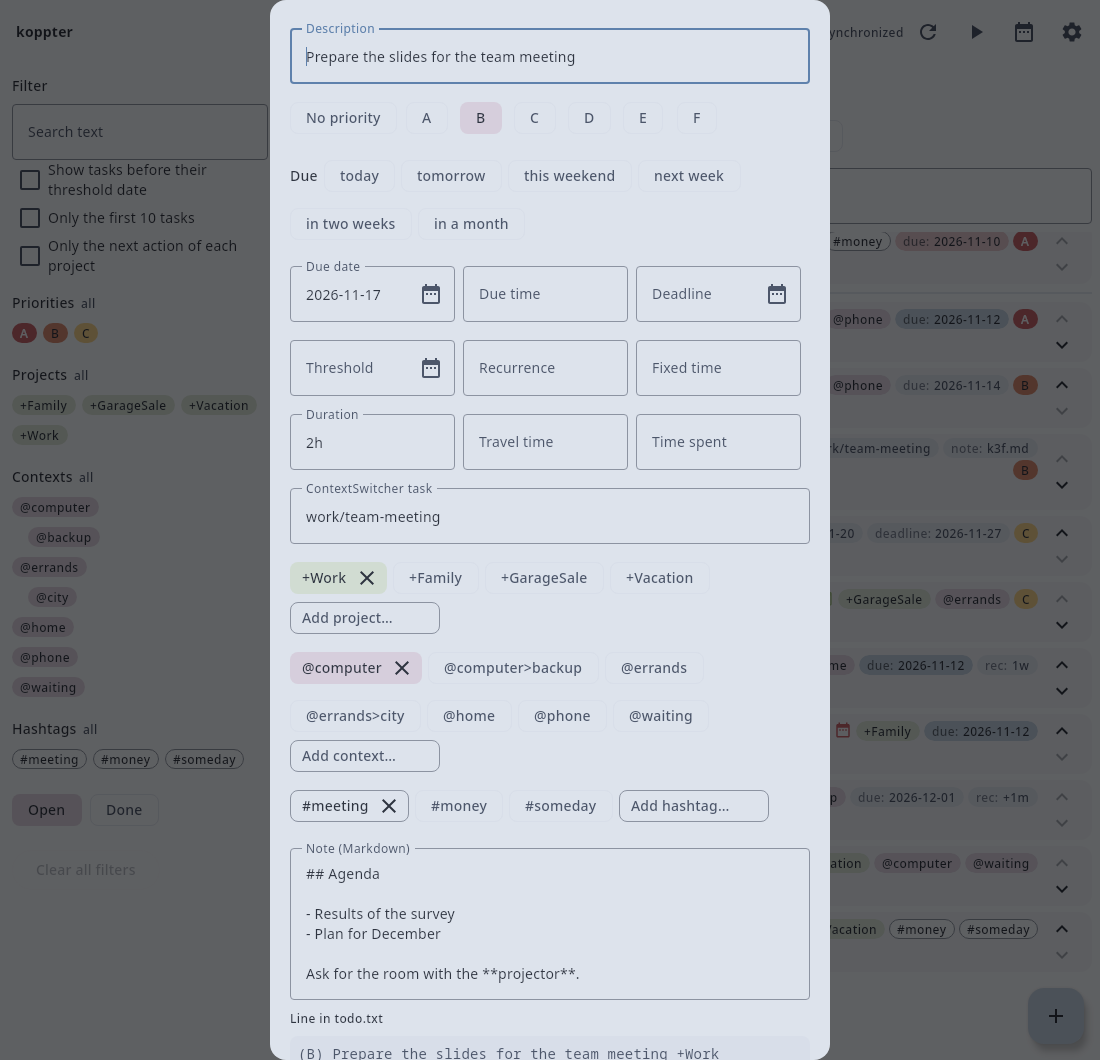
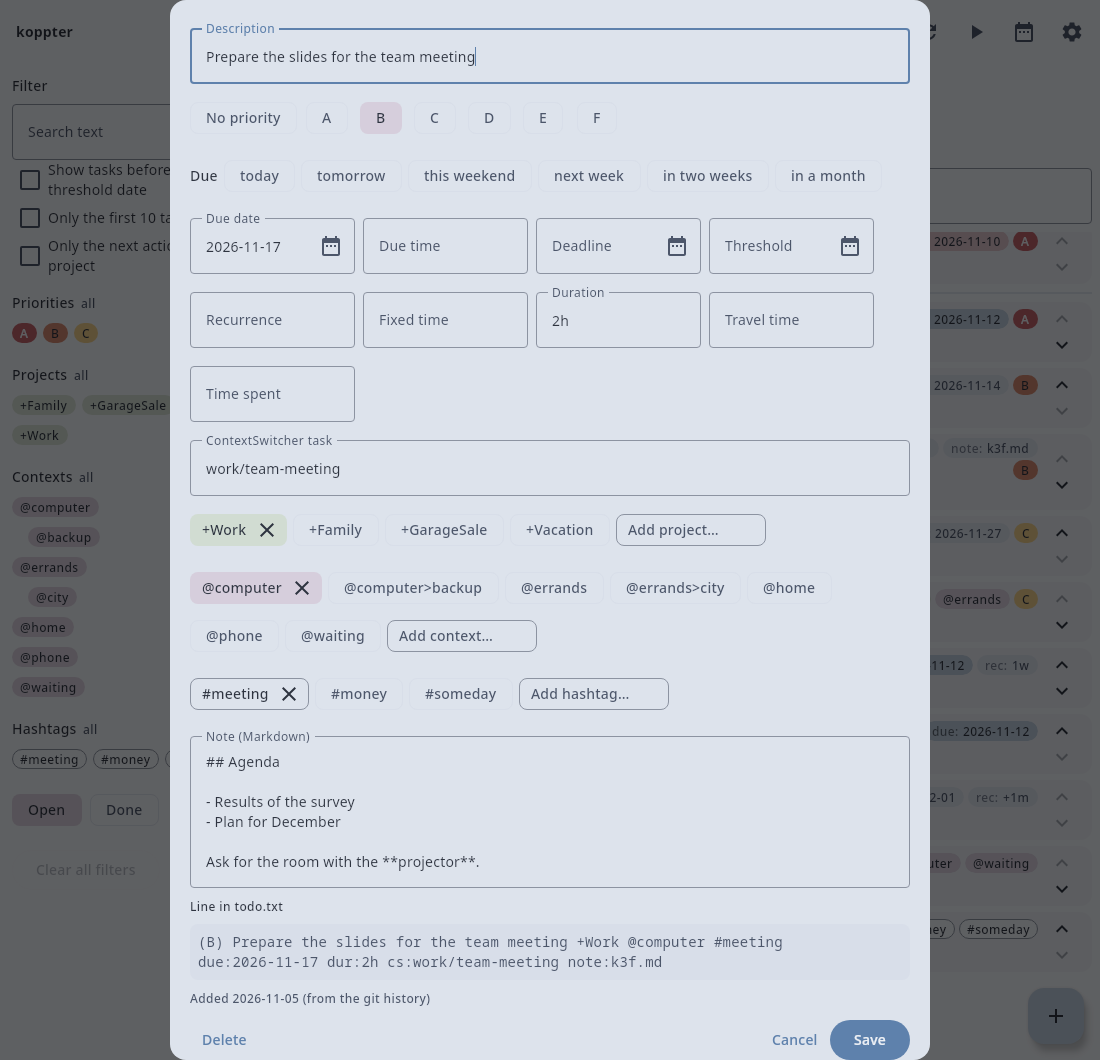
Read dates in words in the dialog of a task and widen it
The description of the dialog reads the phrases of the quick add line and marks them, starts with the cursor at its end, and the dialog shows priorities and due days in one row each.
The heading of a priority group shows the colored label, so that a priority named by a number is not read as a count.

diff --git a/app/src/commonMain/kotlin/io/github/koppor/koppter/ui/EditDialog.kt b/app/src/commonMain/kotlin/io/github/koppor/koppter/ui/EditDialog.kt
@@ -58,8 +58,15 @@ import androidx.compose.runtime.remember
 import androidx.compose.runtime.setValue
 import androidx.compose.ui.Modifier
 import androidx.compose.ui.platform.testTag
+import androidx.compose.ui.text.AnnotatedString
+import androidx.compose.ui.text.SpanStyle
+import androidx.compose.ui.text.TextRange
 import androidx.compose.ui.text.font.FontFamily
 import androidx.compose.ui.text.input.ImeAction
+import androidx.compose.ui.text.input.OffsetMapping
+import androidx.compose.ui.text.input.TextFieldValue
+import androidx.compose.ui.text.input.TransformedText
+import androidx.compose.ui.text.input.VisualTransformation
 import androidx.compose.ui.unit.dp
 import io.github.koppor.koppter.sync.TaskDates
 import io.github.koppor.koppter.todotxt.Recurrence
@@ -96,7 +103,8 @@ fun EditDialog(
     var base by remember { mutableStateOf(original) }
     /** The line while it is typed: what was typed stays, where the fields would write it in another form. */
     var line by remember { mutableStateOf<String?>(null) }
-    var description by remember(base) { mutableStateOf(base.description) }
+    // With the cursor at the end, where the user goes on typing.
+    var description by remember(base) { mutableStateOf(TextFieldValue(base.description, TextRange(base.description.length))) }
     var priority by remember(base) { mutableStateOf(base.priority) }
     var due by remember(base) { mutableStateOf(base.tag(Task.DUE).orEmpty()) }
     var deadline by remember(base) { mutableStateOf(base.tag(Task.DEADLINE).orEmpty()) }
@@ -122,8 +130,8 @@ fun EditDialog(
     val travelValid = travel.isBlank() || Task.parseDuration(travel.trim()) != null
     val spentValid = spent.isBlank() || Task.parseDuration(spent.trim()) != null
     val byValid = by.isBlank() || Task.parseTime(by.trim()) != null
-    val result = base
-        .edit(description = description, priority = priority, projects = projects, contexts = contexts, hashtags = hashtags)
+    val fields = base
+        .edit(description = description.text, priority = priority, projects = projects, contexts = contexts, hashtags = hashtags)
         .withTag(Task.DUE, due.trim())
         .withTag(Task.BY, by.trim())
         .withTag(Task.DEADLINE, deadline.trim())
@@ -138,6 +146,11 @@ fun EditDialog(
         .let { if (contextSwitcher.isBlank()) it.withContextSwitcherTags() else it }
         // [impl->dsn~notes~1]
         .let { if (originalNote == null) it else it.withTag(Task.NOTE, if (note.isBlank()) null else base.tag(Task.NOTE) ?: newNoteName) }
+    // [impl->dsn~edit-dates~1]
+    // Words of a description that was not touched stay words: they were there when the task was written.
+    val result = if (description.text == base.description) fields else fields.withDates(today)
+    /** Where the words that became dates start in the description; `null` if there are none. */
+    val phraseStart = result.description.length.takeIf { result != fields && description.text.startsWith(result.description) }
     val valid = dueValid && deadlineValid && thresholdValid && recurrenceValid && durationValid && atValid && byValid && travelValid && spentValid && result.body.isNotBlank()
 
     val descriptionFocus = remember { FocusRequester() }
@@ -152,7 +165,8 @@ fun EditDialog(
         Surface(
             shape = MaterialTheme.shapes.large,
             tonalElevation = 6.dp,
-            modifier = Modifier.widthIn(max = 560.dp).testTag("edit-dialog")
+            // Wide enough for the priorities and the days of the due date in one row each.
+            modifier = Modifier.widthIn(max = 760.dp).testTag("edit-dialog")
                 // [impl->dsn~keyboard-shortcuts~1]
                 .onPreviewKeyEvent {
                     val save = it.type == KeyEventType.KeyDown && it.key == Key.Enter && (it.isCtrlPressed || it.isMetaPressed)
@@ -166,8 +180,11 @@ fun EditDialog(
             ) {
                 OutlinedTextField(
                     value = description,
-                    onValueChange = { description = it.replace('\n', ' ') },
+                    onValueChange = { description = it.copy(text = it.text.replace('\n', ' ')) },
                     label = { Text("Description") },
+                    // Marked, as the words leave the description when the task is saved.
+                    visualTransformation = phraseColor(phraseStart, MaterialTheme.colorScheme.tertiaryContainer),
+                    supportingText = phraseStart?.let { { Text("The marked words become the dates of the task.", Modifier.testTag("edit-dates-hint")) } },
                     singleLine = true,
                     modifier = Modifier.fillMaxWidth().focusRequester(descriptionFocus).testTag("edit-description"),
                 )
@@ -330,6 +347,12 @@ fun EditDialog(
             }
         }
     }
+}
+
+/** Gives the text from [start] on a background; nothing for `null`. */
+private fun phraseColor(start: Int?, color: Color) = VisualTransformation { text ->
+    val marked = if (start == null || start >= text.length) text else AnnotatedString.Builder(text).apply { addStyle(SpanStyle(background = color), start, text.length) }.toAnnotatedString()
+    TransformedText(marked, OffsetMapping.Identity)
 }
 
 private const val MILLIS_PER_DAY = 86_400_000L

diff --git a/app/src/commonMain/kotlin/io/github/koppor/koppter/ui/TaskList.kt b/app/src/commonMain/kotlin/io/github/koppor/koppter/ui/TaskList.kt
@@ -72,6 +72,7 @@ import androidx.compose.ui.Alignment
 import androidx.compose.ui.Modifier
 import androidx.compose.ui.platform.LocalDensity
 import androidx.compose.ui.platform.testTag
+import androidx.compose.ui.semantics.semantics
 import androidx.compose.ui.text.style.TextDecoration
 import androidx.compose.ui.unit.dp
 import io.github.koppor.koppter.todotxt.Entry
@@ -99,6 +100,7 @@ fun TaskList(
     onDrop: (entry: Entry, target: Entry, before: Boolean) -> Unit,
     emptyText: String,
     modifier: Modifier = Modifier,
+    priorities: Boolean = false,
 ) {
     if (groups.all { it.entries.isEmpty() }) {
         Box(modifier.fillMaxSize(), contentAlignment = Alignment.Center) {
@@ -131,10 +133,9 @@ fun TaskList(
                 val entries = group.entries
                 if (headings) {
                     item(key = "group/${group.title}") {
-                        Text(
-                            "${group.title} (${entries.size})",
-                            style = MaterialTheme.typography.titleSmall,
-                            modifier = Modifier.fillMaxWidth().padding(top = 10.dp)
+                        GroupHeading(
+                            group, priorities,
+                            Modifier.fillMaxWidth().padding(top = 10.dp)
                                 .background(MaterialTheme.colorScheme.surfaceVariant, MaterialTheme.shapes.small)
                                 .padding(horizontal = 12.dp, vertical = 6.dp).testTag("list-group"),
                         )
@@ -325,6 +326,26 @@ fun TaskCard(entry: Entry, today: LocalDate, onToggle: () -> Unit, onOpen: () ->
 }
 
 /**
+ * The title of a group and the number of its tasks.
+ * A priority is drawn as at the tasks: its name may be a number, which next to the count reads as a second count.
+ *
+ * @param priorities whether the groups are those of the priorities
+ */
+// [impl->dsn~list-groups~1]
+@Composable
+private fun GroupHeading(group: Group, priorities: Boolean, modifier: Modifier) {
+    val priority = group.value?.singleOrNull()?.takeIf { priorities }
+    if (priority == null) {
+        Text("${group.title} (${group.entries.size})", style = MaterialTheme.typography.titleSmall, modifier = modifier)
+    } else {
+        Row(modifier.semantics(mergeDescendants = true) {}, horizontalArrangement = Arrangement.spacedBy(6.dp), verticalAlignment = Alignment.CenterVertically) {
+            PriorityLabel(priority)
+            Text("(${group.entries.size})", style = MaterialTheme.typography.titleSmall)
+        }
+    }
+}
+
+/**
  * The days that are offered for a due date, each with what it is called; each day once, under its first name.
  * A weekend and a week end on their Sunday, as in the dates that are typed in words.
  */
@@ -400,6 +421,7 @@ fun Board(
     onMove: (Entry, from: Group, to: Group, at: Entry?, before: Boolean) -> Unit,
     emptyText: String,
     modifier: Modifier = Modifier,
+    priorities: Boolean = false,
 ) {
     if (groups.isEmpty()) {
         Box(modifier.fillMaxSize(), contentAlignment = Alignment.Center) {
@@ -457,11 +479,7 @@ fun Board(
                             )
                             .testTag("board-column"),
                     ) {
-                        Text(
-                            "${group.title} (${group.entries.size})",
-                            style = MaterialTheme.typography.titleSmall,
-                            modifier = Modifier.padding(horizontal = 4.dp, vertical = 6.dp).testTag("board-column-title"),
-                        )
+                        GroupHeading(group, priorities, Modifier.padding(horizontal = 4.dp, vertical = 6.dp).testTag("board-column-title"))
                         val list = rememberLazyListState()
                         DragScroll(drag, list) { columnBounds[index] }
                         LazyColumn(

diff --git a/app/src/desktopTest/kotlin/io/github/koppor/koppter/ui/AppTest.kt b/app/src/desktopTest/kotlin/io/github/koppor/koppter/ui/AppTest.kt
@@ -591,6 +591,29 @@ class AppTest {
         assertEquals("Water plants @home", storage.text.trim().lines().last())
     }
 
+    // [utest->dsn~edit-dates~1]
+    @Test
+    fun theDescriptionOfTheDialogReadsDatesInWordsOnceItIsChanged() = runComposeUiTest {
+        storage.text += "Plan next week\n"
+        start()
+        onNodeWithTag("new-task").performClick()
+        onNodeWithTag("edit-description").performTextInput("Water plants tomorrow")
+        onNodeWithTag("edit-dates-hint", useUnmergedTree = true).assertExists()
+        onNodeWithTag("edit-line").performScrollTo().assertTextEquals("Water plants due:2026-11-13")
+        // A date of the fields stays.
+        onNodeWithTag("edit-due-2026-11-12").performScrollTo().performClick()
+        onNodeWithTag("edit-line").performScrollTo().assertTextEquals("Water plants due:2026-11-12")
+        onNodeWithTag("edit-save").performScrollTo().performClick()
+        assertEquals("Water plants due:2026-11-12", storage.text.trim().lines().last())
+
+        // The words of a task that exists stay until its description is typed in, which starts at its end.
+        openTask("Plan next week")
+        onNodeWithTag("edit-dates-hint", useUnmergedTree = true).assertDoesNotExist()
+        onNodeWithTag("edit-line").performScrollTo().assertTextEquals("Plan next week")
+        onNodeWithTag("edit-description").performTextInput(" by Fri")
+        onNodeWithTag("edit-line").performScrollTo().assertTextEquals("Plan next week due:2026-11-13")
+    }
+
     @Test
     fun aFieldOfOneLineKeepsItsHeightWhenTextIsTyped() = runComposeUiTest {
         start()
@@ -1155,11 +1178,11 @@ class AppTest {
 
         // With a change, the user may go back to the dialog, which still holds the change.
         openTask("Post signs")
-        onNodeWithTag("edit-description").performTextInput("Not wanted ")
+        onNodeWithTag("edit-description").performTextInput(" not wanted")
         esc("edit-description")
         onNodeWithTag("discard-dialog").assertExists()
         onNodeWithTag("discard-keep").performClick()
-        onNodeWithTag("edit-description").assertTextContains("Not wanted Post signs")
+        onNodeWithTag("edit-description").assertTextContains("Post signs not wanted")
 
         esc("edit-description")
         onNodeWithTag("discard-confirm").performClick()
@@ -1849,7 +1872,8 @@ class AppTest {
         start()
         onNodeWithTag("board-switch").performClick()
         onAllNodesWithTag("board-column").assertCountEquals(3)
-        onNodeWithText("A (1)").assertExists()
+        // A priority is drawn as at the tasks, next to the number of its tasks.
+        onAllNodesWithTag("board-column-title")[0].assertTextEquals("A", "(1)")
         onNodeWithText("No priority (1)").assertExists()
 
         onNodeWithTag("group-PROJECT").performClick()
@@ -1991,7 +2015,7 @@ class AppTest {
 
         assertEquals("(A) Schedule pickup +GarageSale @phone", storage.text.lines()[0])
         assertEquals("Move task to A: Schedule pickup", storage.changes.last())
-        onNodeWithText("A (2)").assertExists()
+        onAllNodesWithTag("board-column-title")[0].assertTextEquals("A", "(2)")
         onNodeWithTag("task-dragged").assertDoesNotExist()
         onNodeWithTag("edit-dialog").assertDoesNotExist()
     }

diff --git a/app/src/commonMain/kotlin/io/github/koppor/koppter/ui/GuardedDialog.kt b/app/src/commonMain/kotlin/io/github/koppor/koppter/ui/GuardedDialog.kt
@@ -1,6 +1,7 @@
 package io.github.koppor.koppter.ui
 
 import androidx.compose.foundation.layout.Box
+import androidx.compose.foundation.layout.padding
 import androidx.compose.material3.AlertDialog
 import androidx.compose.material3.Text
 import androidx.compose.material3.TextButton
@@ -16,7 +17,9 @@ import androidx.compose.ui.input.key.key
 import androidx.compose.ui.input.key.onPreviewKeyEvent
 import androidx.compose.ui.input.key.type
 import androidx.compose.ui.platform.testTag
+import androidx.compose.ui.unit.dp
 import androidx.compose.ui.window.Dialog
+import androidx.compose.ui.window.DialogProperties
 
 /**
  * A dialog that asks before it closes with changes that are not saved: on Esc, on a click beside it and on the back button.
@@ -28,9 +31,10 @@ fun GuardedDialog(changed: Boolean, onDismiss: () -> Unit, content: @Composable 
     var asking by remember { mutableStateOf(false) }
     val dismiss = { if (changed) asking = true else onDismiss() }
 
-    Dialog(onDismissRequest = dismiss) {
+    // The content states its own width, which may be more than what the platform gives a dialog; the padding keeps it off the edges of a narrow window.
+    Dialog(onDismissRequest = dismiss, properties = DialogProperties(usePlatformDefaultWidth = false)) {
         Box(
-            Modifier.onPreviewKeyEvent {
+            Modifier.padding(horizontal = 16.dp).onPreviewKeyEvent {
                 // On the release: the question that the key opens would get the release of the key otherwise and close again.
                 if (it.key == Key.Escape && it.type == KeyEventType.KeyUp) dismiss()
                 it.key == Key.Escape

diff --git a/app/src/commonMain/kotlin/io/github/koppor/koppter/ui/App.kt b/app/src/commonMain/kotlin/io/github/koppor/koppter/ui/App.kt
@@ -358,11 +358,13 @@ private fun MainScreen(
                                 moved = controller::moved,
                                 onMove = controller::move,
                                 emptyText = emptyText,
+                                priorities = controller.groupKey == GroupKey.PRIORITY,
                             )
                         } else {
                             TaskList(
                                 controller.listGroups, controller.listGroupKey != null, controller.today(),
                                 controller::toggle, { editing = Editing(it) }, controller::step, controller::drop, emptyText,
+                                priorities = controller.listGroupKey == GroupKey.PRIORITY,
                             )
                         }
                     }

diff --git a/docs/requirements/ui.md b/docs/requirements/ui.md
@@ -44,6 +44,7 @@ Needs: dsn
 A typed line may name its dates in words at the end of its text, such as `tomorrow`, `next week`, `by Wed` or `tomorrow 3pm`.
 The task gets the due date, the threshold date and the times that the words name.
 The application shows the resulting line before the task is added.
+The description of the edit dialog reads the same words.
 
 Covers:
 
@@ -324,6 +325,7 @@ Needs: impl, utest
 
 `TodoController.listGroups` divides the visible tasks by the attribute `listGroupKey` with `groupEntries`, as the board does for its columns; without an attribute, the list is one group.
 `TaskList` shows the groups one after the other, each below a heading with its title and the number of its tasks.
+The heading of a priority, there and above a column of the board, shows the label of the priority as the tasks have it: a priority may be named by a number, which next to the number of the tasks reads as a second count.
 A task with several values of the attribute stands in each of their groups.
 A step and a drag stay within a group; a task is given another value on the board or in the edit dialog.
 
@@ -504,11 +506,25 @@ Covers:
 
 Needs: impl, utest
 
+### Dates in words in the edit dialog
+`dsn~edit-dates~1`
+
+`EditDialog` applies `Task.withDates` to the task that its fields give, once the description differs from that of the task: words that a task was written with stay words.
+The dialog marks the words that become dates with a background and says below the field what the mark means; the resulting line shows the tags.
+A date in a field of the dialog wins over the words, as a tag of a typed line does.
+
+Covers:
+
+* `req~quick-add-dates~1`
+
+Needs: impl, utest
+
 ### Edit dialog
 `dsn~edit-dialog~1`
 
 `EditDialog` keeps the edited values as dialog state and computes the resulting task with `Task.edit` and `Task.withTag` on every change.
 The resulting line is shown below the fields in a monospaced font.
+The description starts with the cursor at its end, and the dialog is wide enough for the priorities and the days of the due date in one row each where the window allows that.
 Projects, contexts and hashtags are chips: those of the task, then known ones to add with a click, then a field of the size of a chip for another name.
 Typing into that field narrows the known ones to those that contain the typed text, so that a context below another one is found by its last level.
 A chip of the task has the colors of its label in the list (`projectColors`, `contextColors`, `hashtagColors`).

diff --git a/CHANGELOG.md b/CHANGELOG.md
@@ -10,6 +10,7 @@ and this project adheres to [Calendar Versioning](https://calver.org/) with the 
 ### Added
 
 - The filter panel of a narrow window, as on a phone, has a button that closes it.
+- The description in the dialog of a task reads dates in words, such as `tomorrow` or `by Fri`, as the line above the list does, and marks the words that become dates.
 - *Choose folder* in the settings opens the `todo.txt` file of a folder. On Android, such a folder has the notes, the scheduled tasks, the configuration and the plan next to the file, which a single chosen file has not. On the desktop, the file need not exist yet.
 - For a repository of GitHub, a button in the settings copies the public SSH key and opens the page of the repository that adds it as a deploy key.
 - The settings tell that the files next to the `todo.txt` file belong to it, and on Android that a file chosen with *Choose file* comes without them.
@@ -18,6 +19,8 @@ and this project adheres to [Calendar Versioning](https://calver.org/) with the 
 
 - On Android, the back gesture closes the filter panel and returns from another view to the list; from the list, it warns, and a second back leaves the application.
 - The week shows all its hours without scrolling, also on a phone that is held upright.
+- The heading of a group of a priority shows the colored label of the priority, so that a priority named by a number is not read as a count.
+- The dialog of a task is wider, and its description starts with the cursor at the end.
 - The dialogs that choose a file come from the library FileKit: on the desktop, they are those of the operating system, and on Linux that of the desktop portal.
 - A device without a keyboard has no line for a new task above the list, and the dialog of a new task starts with the cursor in the description.
 - A click on the public SSH key in the settings copies it.

diff --git a/CLAUDE.md b/CLAUDE.md
@@ -51,7 +51,8 @@
   Android library target: compiled from the same `commonMain`.
   The icon is drawn in `docs/logo.svg`; after a change, export it with `inkscape docs/logo.svg -w 256 -o app/src/desktopMain/resources/koppter.png` repeat the paths in `android/src/main/res/drawable/ic_launcher_foreground.xml`, and run `app/packaging/icons.sh` for the icons of the desktop packages.
   `./gradlew :app:packageDistributionForCurrentOS` builds the package of the system it runs on (deb, msi or dmg) into `app/build/compose/binaries/`.
-* `:android` — the Android application: `MainActivity`, `DocumentStorage` (file behind a `content:` URI).
+* `:android` — the Android application: `MainActivity`, `DocumentStorage` (file behind a `content:` URI), `FolderStorage` (folder behind one, with the files next to todo.txt).
+  The dialogs for a file and a folder come from FileKit, on the desktop as well (decision 0036).
   Not run on a device or emulator in development sessions; say so when reporting Android changes.
   CI signs the release APK with the key from the secrets `SIGNING_KEYSTORE_BASE64` and `SIGNING_KEYSTORE_PASSWORD` (decision 0010); the key store itself is never committed.
 * Files next to todo.txt (`notes/`, `ice_recur.txt`, `koppter.yml`, `calendar.txt`, `calendar.ics`) go through `CompanionFiles`; `GitStorage` commits them with the next todo.txt change.

diff --git a/README.md b/README.md
@@ -340,7 +340,7 @@ File the tax return @home due:2026-11-20 deadline:2026-11-30
 
 ## Dates in words
 
-A line typed above the list may name its dates in words instead of tags.
+A line typed above the list may name its dates in words instead of tags, and so may the description in the dialog of a task, which marks these words.
 `Write the report next week` is written as `Write the report t:2026-11-16 due:2026-11-22`.
 The phrases are those that [SkedPal](https://docs.skedpal.com/planning/setting-a-plan-for-a-task) reads in the title of a task; the examples are typed on Friday, 13 November 2026.
 
@@ -407,7 +407,7 @@ The list and the columns of the board scroll while a task is held at their upper
 ## Groups in the list
 
 The switches below the views divide the list into groups: by priority, project, context, hashtag or due date range.
-Each group stands below a heading with its title and the number of its tasks, and a second click on the switch shows the list without groups again.
+Each group stands below a heading with its title and the number of its tasks, a priority with its colored label, and a second click on the switch shows the list without groups again.
 A task with two projects stands in the groups of both.
 
 ![Task list divided into groups by project](docs/screenshots/list-project.png)
